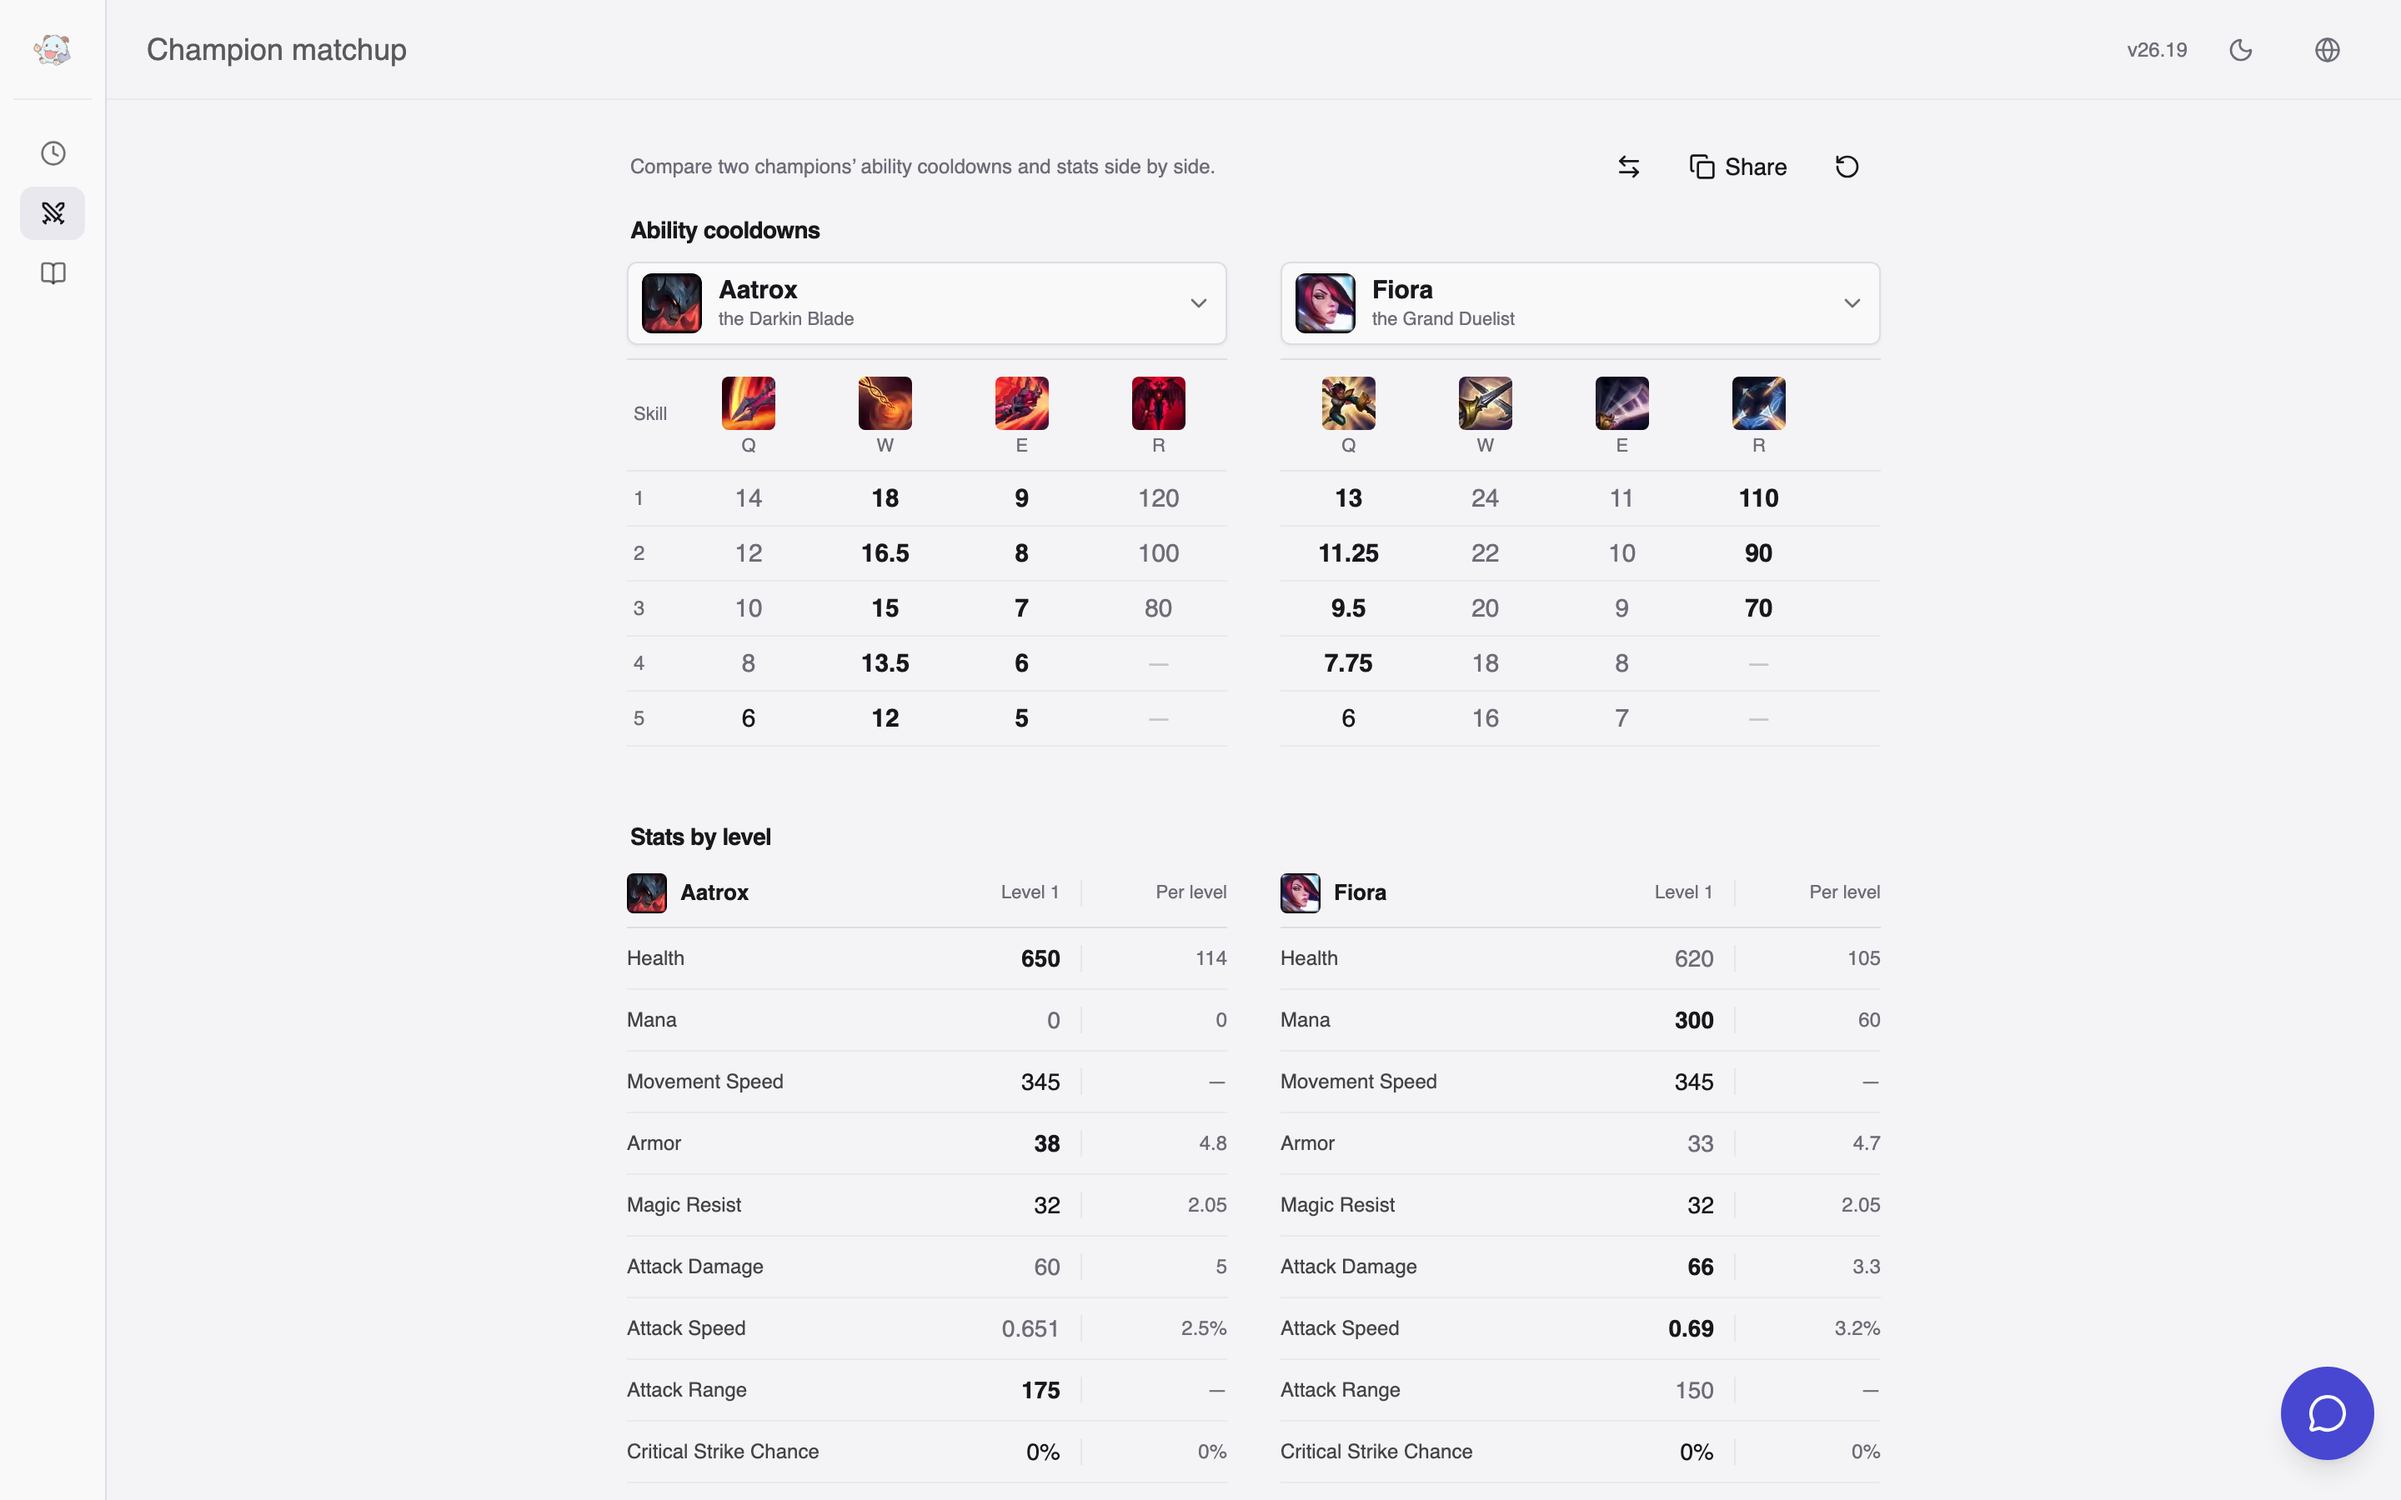
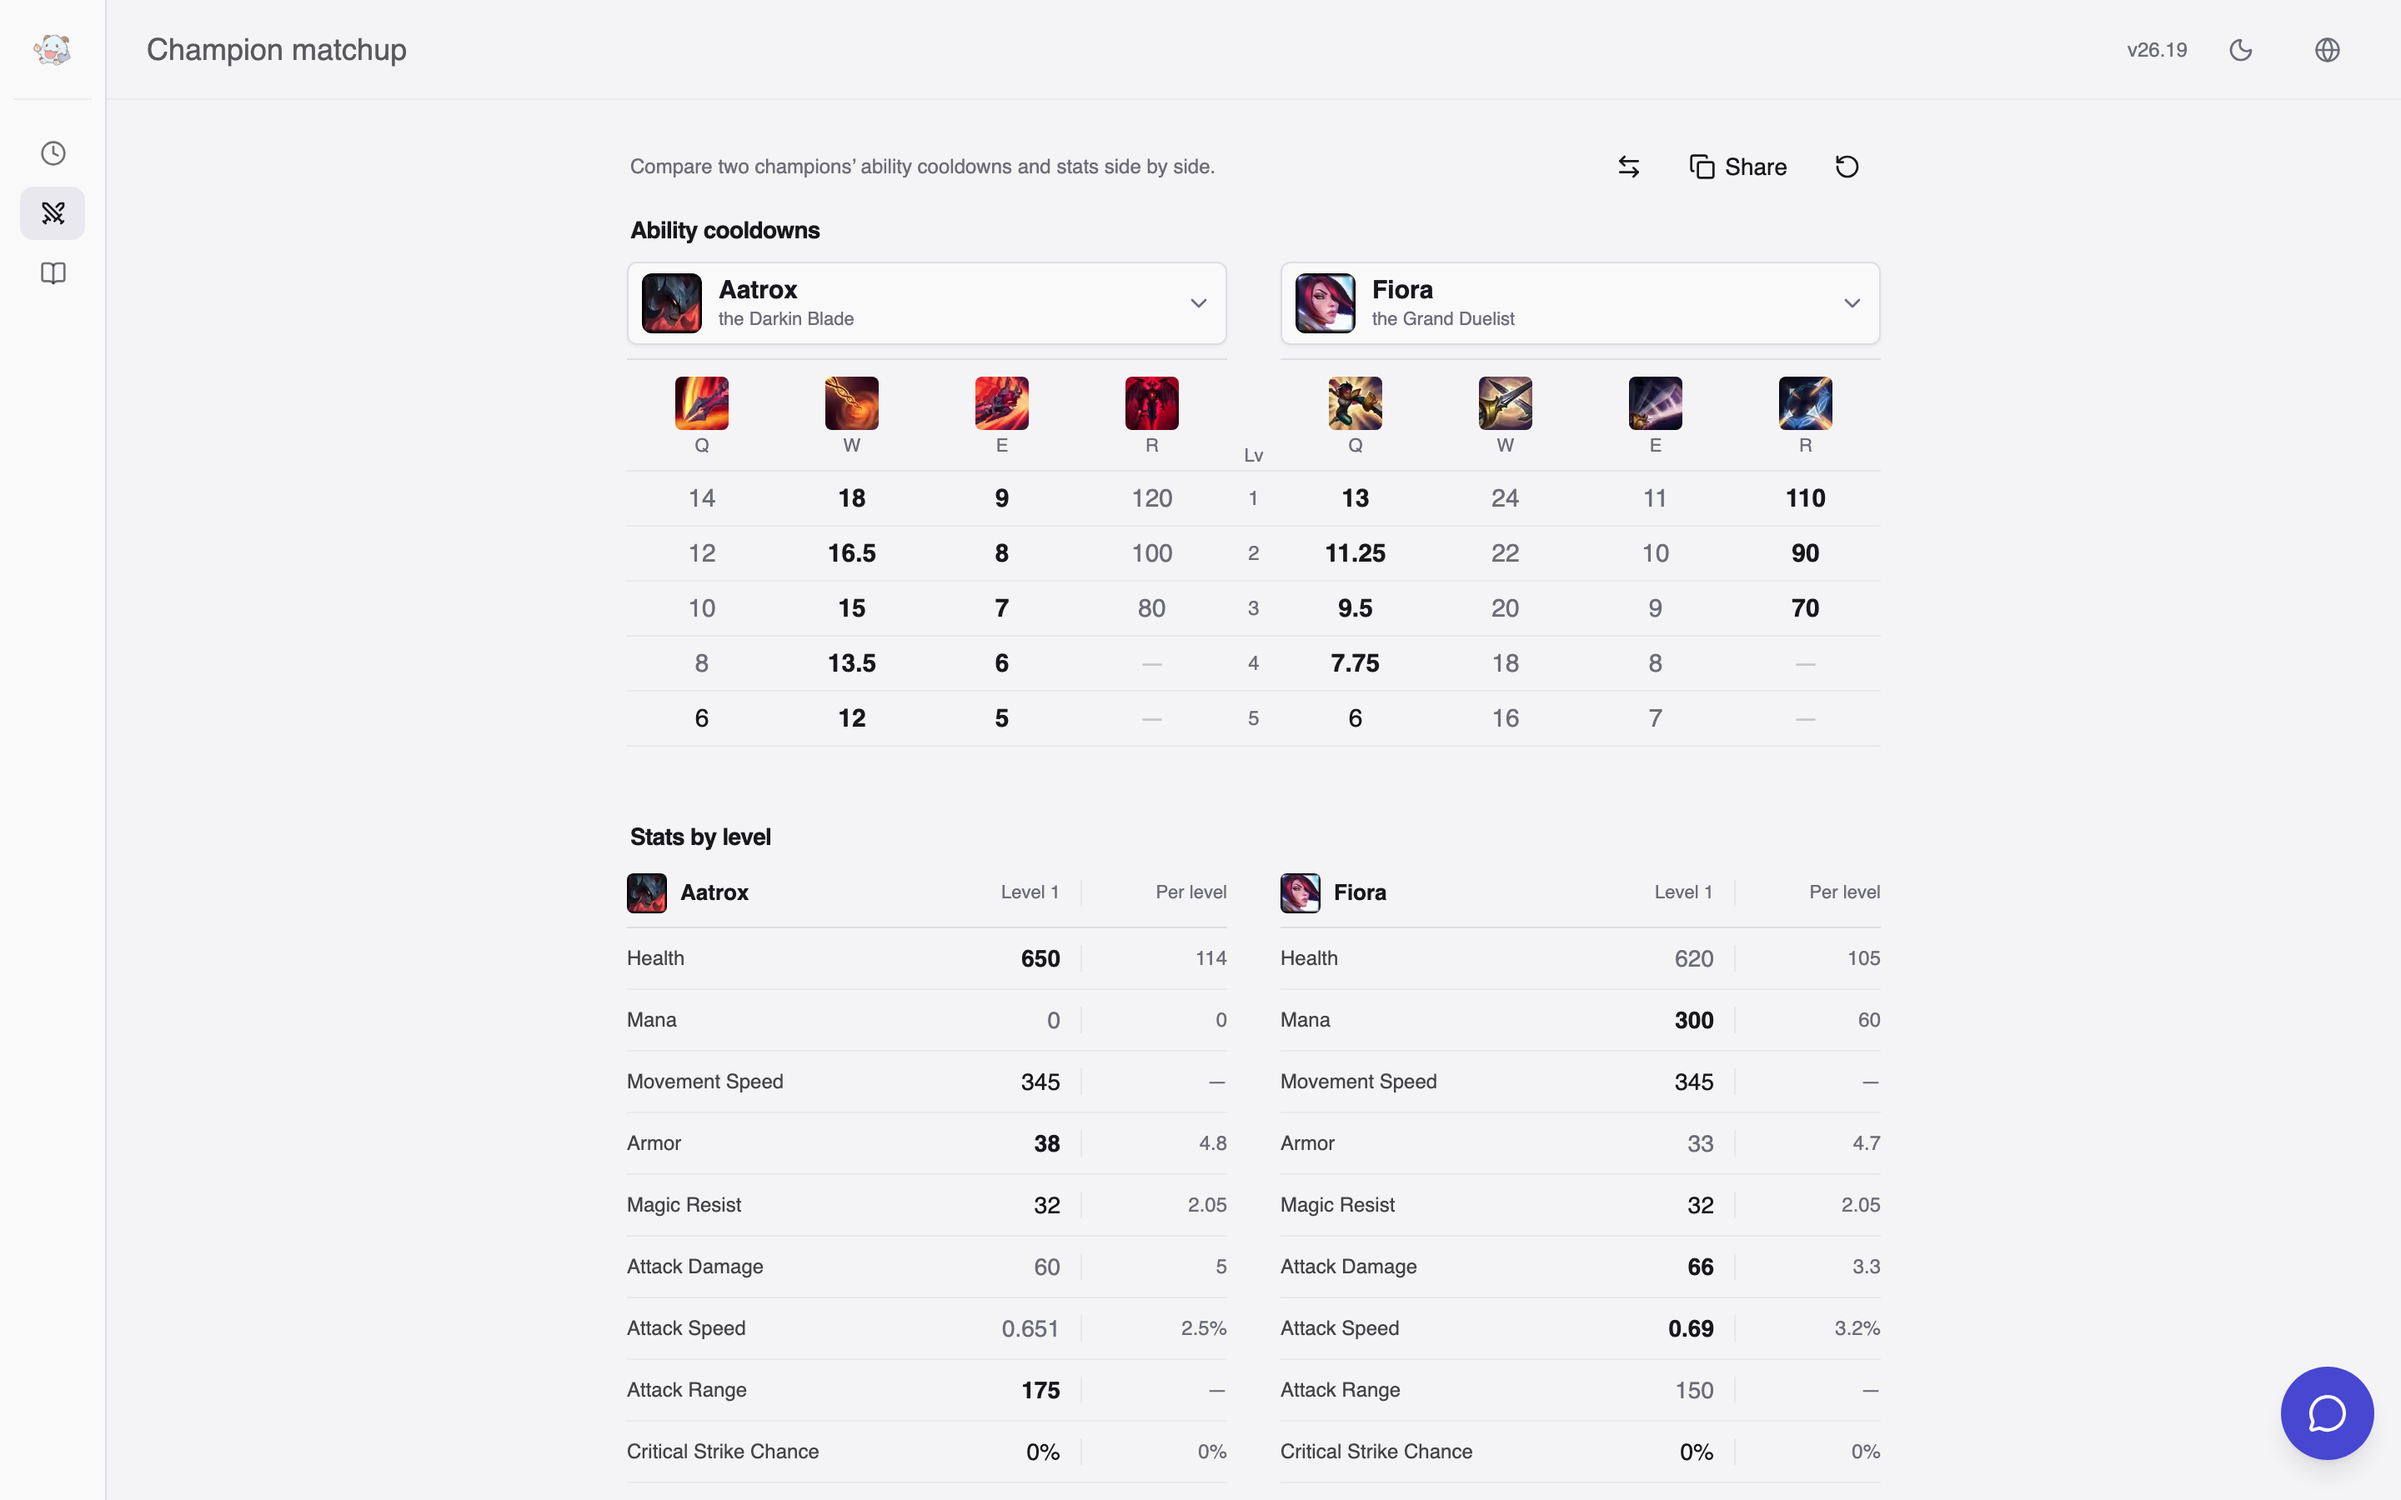
feat: VS 쿨타임 표의 순위 열을 두 챔피언 사이로 옮기고 레벨(Lv·等级)로 표기해 좌우를 대칭으로 맞춘다
왼쪽 끝 순위 열과 오른쪽 끝 빈 열로 폭만 맞추던 구조에서, 왼쪽 카드 안에는 숫자가
오른쪽 카드 안에는 빈 칸이 들어가 아이콘 정렬이 어긋나 보였다. 숫자 하나가 양쪽을
가리키게 가운데로 두고 두 카드는 스킬 4열씩만 덮는다. README 의 VS 캡처를 갱신한다.

diff --git a/src/pages/VsPage/VsCooldownMatrix.tsx b/src/pages/VsPage/VsCooldownMatrix.tsx
@@ -55,10 +55,12 @@ export function VsCooldownMatrix({ sides, version, onSelect }: { sides: MatrixSi
    * 그러니 가운데에 밑줄을 긋지 않는 빈 열을 세운다. 아래 구역의 `gap-x-8` 과
    * 같은 32px 다.
    *
-   *   순위 32 | 내 4열 | 빈 열 32 | 상대 4열 | 빈 열 32
+   *   내 4열 | 레벨 열 32 | 상대 4열
    *
-   * 양 끝 빈 열이 순위 열과 짝이 되어 가운데가 정중앙에 온다. 밑줄은 순위 열과
-   * 오른쪽 빈 열까지 이어지므로 아래 블록과 좌우 끝이 같아진다.
+   * 레벨 숫자는 그 빈 열 안에 둔다. 예전에는 왼쪽 끝에 순위 열을 두고 오른쪽 끝에
+   * 빈 열을 세워 폭만 맞췄는데, 왼쪽 카드 안에는 숫자가 들어가고 오른쪽 카드 안에는
+   * 빈 칸이 들어가 아이콘 정렬이 어긋나 보였다. 숫자 하나가 양쪽을 다 가리키니
+   * 가운데가 제자리다. 두 카드는 정확히 스킬 4열씩만 덮는다.
    */
   const hasDetails = sides.some(({ detail }) => detail);
   // A/B legend under the table: one line per champion that has forms, unique (key, label) pairs in A→B order.
@@ -74,18 +76,16 @@ export function VsCooldownMatrix({ sides, version, onSelect }: { sides: MatrixSi
       <table className="w-full table-fixed border-separate border-spacing-0" aria-label={t.comparison.baseCooldowns}>
         <caption className="sr-only">{t.comparison.tableNote}</caption>
         <colgroup>
-          <col className="w-8" />
           {columns.slice(0, ACTIVE_SLOTS.length).map((column) => <col key={column.side + column.slot} />)}
-          <col className="w-2 sm:w-8" />
+          <col className="w-7 sm:w-8" />
           {columns.slice(ACTIVE_SLOTS.length).map((column) => <col key={column.side + column.slot} />)}
-          <col className="w-0 sm:w-8" />
         </colgroup>
         <thead>
           <tr>
             {sides.map(({ side, id, result }, index) => (
               <Fragment key={side}>
                 {index === 1 && <th aria-hidden="true" />}
-                <th scope="colgroup" colSpan={ACTIVE_SLOTS.length + 1} className="border-b border-border pb-2 pt-px align-top font-normal">
+                <th scope="colgroup" colSpan={ACTIVE_SLOTS.length} className="border-b border-border pb-2 pt-px align-top font-normal">
                   <div id={"vs-header-" + side}>
                     <VsChampionHeader id={id} side={side} label={t.comparison[side]} version={version} result={result} onSelect={() => onSelect(side)} />
                   </div>
@@ -94,33 +94,29 @@ export function VsCooldownMatrix({ sides, version, onSelect }: { sides: MatrixSi
             ))}
           </tr>
           {hasDetails && <tr>
-            <th scope="col" className="border-b border-border/60 px-1 text-left text-[11px] font-normal text-muted-foreground">{t.comparison.skill}</th>
             {columns.map(({ side, slot, name, championId, ability }, index) => (
               <Fragment key={side + slot}>
-                {index === ACTIVE_SLOTS.length && <td aria-hidden="true" className="p-0" />}
+                {index === ACTIVE_SLOTS.length && <th scope="col" className="border-b border-border/60 px-0 text-center align-bottom text-[11px] font-normal text-muted-foreground">{t.comparison.levelColumn}</th>}
                 <VsMatrixSkill side={side} slot={slot} name={name} championId={championId} ability={ability} version={version} onSelect={(selectedAbility, trigger) => { returnFocus.current = trigger; setSelected({ ability: selectedAbility, name, slot }); }} />
               </Fragment>
             ))}
-            <td className="border-b border-border/60 p-0" />
           </tr>}
         </thead>
         <tbody>
           {!hasDetails && (
-            <tr><td colSpan={columns.length + 3} className="px-2 py-8 text-center text-xs text-muted-foreground">{t.comparison.empty}</td></tr>
+            <tr><td colSpan={columns.length + 1} className="px-2 py-8 text-center text-xs text-muted-foreground">{t.comparison.empty}</td></tr>
           )}
           {hasDetails && Array.from({ length: rowCount }, (_, index) => (
             <tr key={index} data-rank-row={index + 1} className="hover:bg-muted/40">
-              <th id={"vs-rank-" + (index + 1)} scope="row" className="border-b border-border/50 px-1 py-1 text-left text-xs font-normal tabular-nums text-muted-foreground">{index + 1}</th>
               {values.map(({ side, slot, ability, cooldowns, recharges }, columnIndex) => (
                 <Fragment key={side + slot}>
-                {columnIndex === ACTIVE_SLOTS.length && <td aria-hidden="true" className="p-0" />}
+                {columnIndex === ACTIVE_SLOTS.length && <th id={"vs-rank-" + (index + 1)} scope="row" className="border-b border-border/50 px-0 py-1 text-center align-middle text-xs font-normal tabular-nums text-muted-foreground">{index + 1}</th>}
                 <td headers={"vs-rank-" + (index + 1) + " vs-" + side + "-" + slot} className="border-b border-border/50 px-0.5 py-1 text-center align-middle">
                   {ability?.forms ? <VsFormCooldown ability={ability} peer={values[peerIndex(columnIndex)]?.ability} rank={index + 1} side={side} slot={slot} format={formatter.format} /> : <VsCooldownValue value={cooldowns[index]} peer={comparisonCooldownAtRank(values[peerIndex(columnIndex)]?.ability, index + 1)} kind="cooldown" side={side} slot={slot} rank={index + 1} format={formatter.format} />}
                   {recharges[index] !== null && <span className="mt-0.5 block text-[11px] leading-4 text-muted-foreground">{t.common.rechargeTime} <VsCooldownValue value={recharges[index]} peer={values[peerIndex(columnIndex)]?.recharges[index] ?? null} kind="recharge" side={side} slot={slot} rank={index + 1} format={formatter.format} /></span>}
                 </td>
                 </Fragment>
               ))}
-              <td className="border-b border-border/50 p-0" />
             </tr>
           ))}
         </tbody>
@@ -132,7 +128,7 @@ export function VsCooldownMatrix({ sides, version, onSelect }: { sides: MatrixSi
                 return (
                   <Fragment key={side}>
                   {index === 1 && <td aria-hidden="true" />}
-                  <td colSpan={ACTIVE_SLOTS.length + 1} className="pb-1 pt-2 pl-1 text-[11px] leading-4 text-muted-foreground sm:pl-2">
+                  <td colSpan={ACTIVE_SLOTS.length} className="pb-1 pt-2 pl-1 text-[11px] leading-4 text-muted-foreground sm:pl-2">
                     {forms.length > 0 && (
                       <p data-form-labels data-side={side}>
                         <span className="mr-1.5 text-foreground/80">{detail?.champion.name}</span>

diff --git a/src/i18n/comparisonTranslations.ts b/src/i18n/comparisonTranslations.ts
@@ -19,7 +19,7 @@ export interface ComparisonLabels {
   empty: string;
   rank: string;
   baseCooldowns: string;
-  skill: string;
+  levelColumn: string;
   champion: string;
   tableNote: string;
   cooldownNote: string;
@@ -75,7 +75,7 @@ export const koComparison: ComparisonLabels = {
   empty: "챔피언을 선택하면 스킬과 쿨타임이 표시됩니다.",
   rank: "스킬 랭크",
   baseCooldowns: "스킬 쿨타임",
-  skill: "스킬",
+  levelColumn: "레벨",
   champion: "챔피언",
   tableNote:
     "Q·W·E·R마다 내 챔피언과 상대를 나란히 비교합니다. 행은 챔피언 레벨이 아닌 스킬 랭크입니다.",
@@ -106,7 +106,7 @@ export const enComparison: ComparisonLabels = {
   empty: "Select a champion to see abilities and cooldowns.",
   rank: "Ability rank",
   baseCooldowns: "Ability cooldowns",
-  skill: "Skill",
+  levelColumn: "Lv",
   champion: "Champion",
   tableNote:
     "Each Q/W/E/R group pairs your champion with the opponent. Rows are ability ranks, not champion levels.",
@@ -136,7 +136,7 @@ export const zhComparison: ComparisonLabels = {
   empty: "选择英雄后即可查看技能与冷却时间。",
   rank: "技能等级",
   baseCooldowns: "技能冷却时间",
-  skill: "技能",
+  levelColumn: "等级",
   champion: "英雄",
   tableNote: "Q/W/E/R 各组并排比较双方英雄。行表示技能等级，而非英雄等级。",
   shorter: "同一技能、同一等级下更短的冷却时间",
